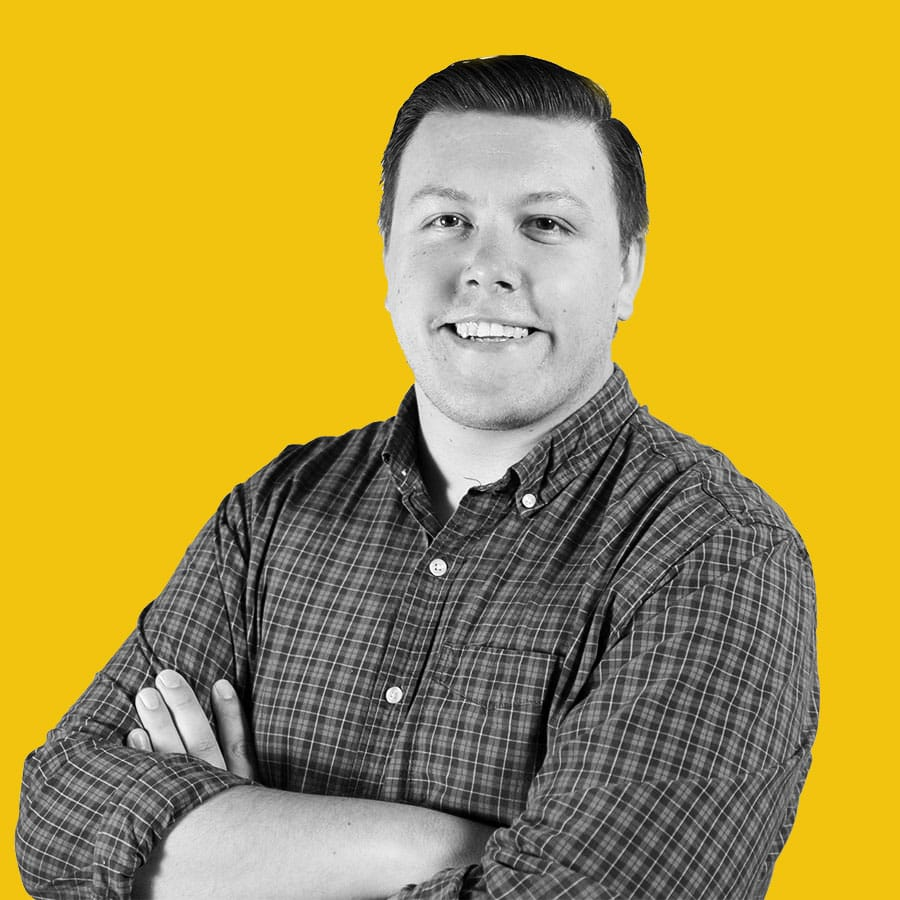
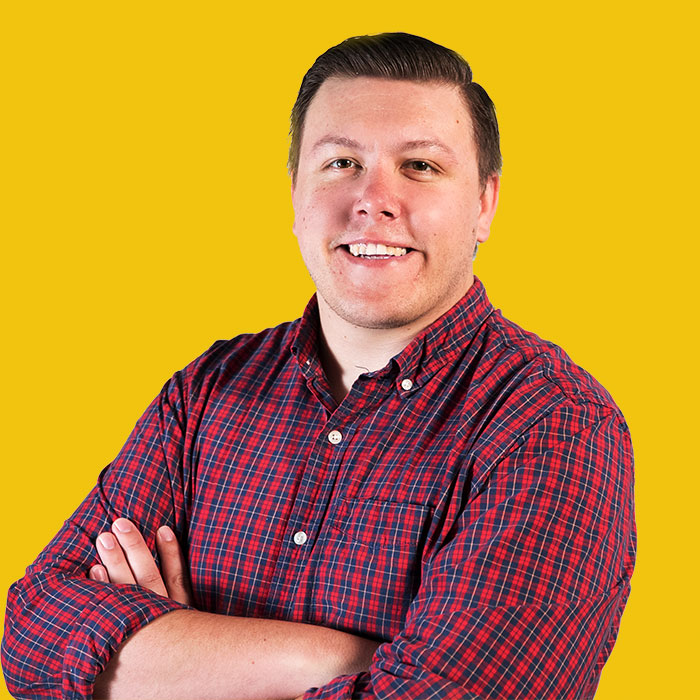
update headshot, use picture element, better font stack

diff --git a/_includes/css/main.css b/_includes/css/main.css
@@ -1,1 +1,1 @@
-/*! normalize.css v5.0.0 | MIT License | github.com/necolas/normalize.css */html{font-family:sans-serif;line-height:1.15;-ms-text-size-adjust:100%;-webkit-text-size-adjust:100%}body{margin:0}article,aside,footer,header,nav,section{display:block}h1{font-size:2em;margin:.67em 0}figcaption,figure,main{display:block}figure{margin:1em 40px}hr{box-sizing:content-box;height:0;overflow:visible}pre{font-family:monospace,monospace;font-size:1em}a{background-color:transparent;-webkit-text-decoration-skip:objects}a:active,a:hover{outline-width:0}abbr[title]{border-bottom:none;text-decoration:underline;text-decoration:underline dotted}b,strong{font-weight:inherit;font-weight:bolder}code,kbd,samp{font-family:monospace,monospace;font-size:1em}dfn{font-style:italic}mark{background-color:#ff0;color:#000}small{font-size:80%}sub,sup{font-size:75%;line-height:0;position:relative;vertical-align:baseline}sub{bottom:-.25em}sup{top:-.5em}audio,video{display:inline-block}audio:not([controls]){display:none;height:0}img{border-style:none}svg:not(:root){overflow:hidden}button,input,optgroup,select,textarea{font-family:sans-serif;font-size:100%;line-height:1.15;margin:0}button,input{overflow:visible}button,select{text-transform:none}[type=reset],[type=submit],button,html [type=button]{-webkit-appearance:button}[type=button]::-moz-focus-inner,[type=reset]::-moz-focus-inner,[type=submit]::-moz-focus-inner,button::-moz-focus-inner{border-style:none;padding:0}[type=button]:-moz-focusring,[type=reset]:-moz-focusring,[type=submit]:-moz-focusring,button:-moz-focusring{outline:1px dotted ButtonText}fieldset{border:1px solid silver;margin:0 2px;padding:.35em .625em .75em}legend{box-sizing:border-box;color:inherit;display:table;max-width:100%;padding:0;white-space:normal}progress{display:inline-block;vertical-align:baseline}textarea{overflow:auto}[type=checkbox],[type=radio]{box-sizing:border-box;padding:0}[type=number]::-webkit-inner-spin-button,[type=number]::-webkit-outer-spin-button{height:auto}[type=search]{-webkit-appearance:textfield;outline-offset:-2px}[type=search]::-webkit-search-cancel-button,[type=search]::-webkit-search-decoration{-webkit-appearance:none}::-webkit-file-upload-button{-webkit-appearance:button;font:inherit}details,menu{display:block}summary{display:list-item}canvas{display:inline-block}[hidden],template{display:none}html{font-size:1rem}@media (min-width:52rem){html{font-size:1.125rem}}body{line-height:1.45}p{margin-bottom:1.3em}h1,h2,h3,h4{margin:1.414em 0 .5em;font-weight:inherit;line-height:1.2}h1{font-size:2.369rem;margin-top:0}@media (min-width:52rem){h1{font-size:3.157rem}}h2{font-size:1.777rem}@media (min-width:52rem){h2{font-size:2.369rem}}h3{font-size:1.777rem}h4{font-size:1.333em}.font_small,small{font-size:.75rem}ol,ul{padding-left:1rem}*,:after,:before{box-sizing:inherit;padding:0;margin:0}html{box-sizing:border-box}body{font-family:monospace;font-weight:400;-webkit-font-smoothing:antialiased;-moz-osx-font-smoothing:grayscale}html.wf-active body{font-family:Roboto Mono,monospace}h1,h2,h3,h4{font-family:-apple-system,BlinkMacSystemFont,Segoe UI,Roboto,Helvetica,Arial,sans-serif}html.wf-active h1,html.wf-active h2,html.wf-active h3,html.wf-active h4{font-family:Poppins}strong{font-weight:600}figure{margin:0}img,svg{display:block;height:auto;max-width:100%}.image--bordered{border-radius:3px;border:1px solid #fff}a{color:inherit;word-break:break-word;transition:color .25s,background .3s;-webkit-text-decoration-skip:ink;text-decoration-skip:ink}a svg{transition:fill .25s}a img{transition:opacity .25s}pre{display:block;padding:1rem;overflow:auto;color:#f1c40f;background:#474b4d}.scr-text{position:absolute!important;width:1px;height:1px;overflow:hidden;clip:rect(1px,1px,1px,1px);color:inherit}.twitter-timeline{display:none;width:100%!important}@media (min-width:52rem){.twitter-timeline{display:block}}.button{font-family:-apple-system,BlinkMacSystemFont,Segoe UI,Roboto,Helvetica,Arial,sans-serif;color:#fff;text-decoration:none;background:#2574a9;padding:.5rem 1rem}html.wf-active .button{font-family:Poppins}.button:hover{background:#2c3e50}.button--white{color:#2c3e50;background:#fff}.button--white:hover{background:#f1c40f}.header{padding:1rem 0}.header a{color:#2c3e50}.header a:hover{color:#2574a9}.header__title{display:inline-block;font-size:.75rem}.header__title:hover svg{fill:#f1c40f}.header__title svg{display:none;vertical-align:middle;fill:#2574a9}@media (min-width:52rem){.header__title svg{display:inline-block;width:20px;height:20px}}.footer{background:#2c3e50;color:#fff;padding:1rem 0}.footer p{margin:0}.footer__info{background:#2574a9;padding:.5rem;font-size:.75rem}.footer__social{display:-ms-flexbox;display:flex}@media (min-width:52rem){.footer__social>:first-child{margin-left:auto}}.footer__social a{display:inline-block}.footer__social a .scr-text{color:#c8f7c5}.footer__social a svg{fill:#f1c40f;display:block;height:30px;width:30px}@media (min-width:52rem){.footer__social a svg{height:40px;width:40px}}.footer__social a:focus svg,.footer__social a:hover svg{fill:#fff}.wrapper{position:relative;margin-left:auto;margin-right:auto;padding-right:15px;padding-left:15px;max-width:78rem}@media (min-width:576px){.wrapper{padding-right:15px;padding-left:15px}}@media (min-width:768px){.wrapper{padding-right:15px;padding-left:15px}}@media (min-width:992px){.wrapper{padding-right:15px;padding-left:15px}}@media (min-width:1200px){.wrapper{padding-right:15px;padding-left:15px}}.row{display:-ms-flexbox;display:flex;-ms-flex-wrap:wrap;flex-wrap:wrap;margin-right:-15px;margin-left:-15px}@media (min-width:576px){.row{margin-right:-15px;margin-left:-15px}}@media (min-width:768px){.row{margin-right:-15px;margin-left:-15px}}@media (min-width:992px){.row{margin-right:-15px;margin-left:-15px}}@media (min-width:1200px){.row{margin-right:-15px;margin-left:-15px}}.row--center{-ms-flex-align:center;align-items:center}.column{position:relative;width:100%;min-height:1px;padding-right:15px;padding-left:15px}@media (min-width:576px){.column{padding-right:15px;padding-left:15px}}@media (min-width:768px){.column{padding-right:15px;padding-left:15px}}@media (min-width:992px){.column{padding-right:15px;padding-left:15px}}@media (min-width:1200px){.column{padding-right:15px;padding-left:15px}}.column--half{-ms-flex:0 0 50%;flex:0 0 50%;max-width:50%}.column--third{-ms-flex:0 0 33.33333%;flex:0 0 33.33333%;max-width:33.33333%}@media (min-width:60em){.column--split{-ms-flex:0 0 50%;flex:0 0 50%;max-width:50%}}.section{overflow:hidden}.section h2{margin-top:0}.section--gray{background:#f1f4f3}.section--dark{background:#474b4d}.section--navy{color:#fff;background:#2c3e50}.section--padded{padding-top:2rem;padding-bottom:2rem}@media (min-width:52rem){.section--padded{padding-top:4rem;padding-bottom:4rem}}.intro{background:#f1c40f;color:#010a15}.intro__description{padding-top:2rem;padding-bottom:2rem}@media (min-width:52rem){.intro__description{padding-top:4rem}}.intro__title{color:#2c3e50}.posts>a{display:block}.posts>a+a{margin-top:2rem}.post a{color:#2574a9}.post a:hover,.post h2,.post h3,.post h4{color:#2c3e50}.post figure,.post h2,.post h3,.post h4,.post pre{margin-bottom:1.3rem}.post blockquote{padding-left:1.3rem;color:#474b4d;border-left:3px solid #474b4d}.post__date{font-family:-apple-system,BlinkMacSystemFont,Segoe UI,Roboto,Helvetica,Arial,sans-serif;position:relative;display:inline-block;padding-top:.25rem;font-size:.75rem;color:#2c3e50;border-top:3px solid #2574a9;margin-bottom:1rem}html.wf-active .post__date{font-family:Poppins}.post__title{margin-top:0;margin-bottom:0;font-size:1.777rem;color:#2574a9}.post__title a{display:block}@media (min-width:52rem){.post__title--large{font-size:2.369rem}}.post__content,.post__content *+blockquote,.post__content *+p{margin-top:1.3rem}.post__content iframe{display:block;max-width:100%;margin:2.6rem auto}.Project__image{display:none}@media (min-width:52rem){.Project__image{display:block;margin:1rem 0}.Project__image img{border-radius:50%}}.Project__title{font-size:1.777rem;color:inherit}.Project__description{font-size:.75rem}
+/*! normalize.css v5.0.0 | MIT License | github.com/necolas/normalize.css */html{font-family:sans-serif;line-height:1.15;-ms-text-size-adjust:100%;-webkit-text-size-adjust:100%}body{margin:0}article,aside,footer,header,nav,section{display:block}h1{font-size:2em;margin:.67em 0}figcaption,figure,main{display:block}figure{margin:1em 40px}hr{box-sizing:content-box;height:0;overflow:visible}pre{font-family:monospace,monospace;font-size:1em}a{background-color:transparent;-webkit-text-decoration-skip:objects}a:active,a:hover{outline-width:0}abbr[title]{border-bottom:none;text-decoration:underline;text-decoration:underline dotted}b,strong{font-weight:inherit;font-weight:bolder}code,kbd,samp{font-family:monospace,monospace;font-size:1em}dfn{font-style:italic}mark{background-color:#ff0;color:#000}small{font-size:80%}sub,sup{font-size:75%;line-height:0;position:relative;vertical-align:baseline}sub{bottom:-.25em}sup{top:-.5em}audio,video{display:inline-block}audio:not([controls]){display:none;height:0}img{border-style:none}svg:not(:root){overflow:hidden}button,input,optgroup,select,textarea{font-family:sans-serif;font-size:100%;line-height:1.15;margin:0}button,input{overflow:visible}button,select{text-transform:none}[type=reset],[type=submit],button,html [type=button]{-webkit-appearance:button}[type=button]::-moz-focus-inner,[type=reset]::-moz-focus-inner,[type=submit]::-moz-focus-inner,button::-moz-focus-inner{border-style:none;padding:0}[type=button]:-moz-focusring,[type=reset]:-moz-focusring,[type=submit]:-moz-focusring,button:-moz-focusring{outline:1px dotted ButtonText}fieldset{border:1px solid silver;margin:0 2px;padding:.35em .625em .75em}legend{box-sizing:border-box;color:inherit;display:table;max-width:100%;padding:0;white-space:normal}progress{display:inline-block;vertical-align:baseline}textarea{overflow:auto}[type=checkbox],[type=radio]{box-sizing:border-box;padding:0}[type=number]::-webkit-inner-spin-button,[type=number]::-webkit-outer-spin-button{height:auto}[type=search]{-webkit-appearance:textfield;outline-offset:-2px}[type=search]::-webkit-search-cancel-button,[type=search]::-webkit-search-decoration{-webkit-appearance:none}::-webkit-file-upload-button{-webkit-appearance:button;font:inherit}details,menu{display:block}summary{display:list-item}canvas{display:inline-block}[hidden],template{display:none}html{font-size:1rem}@media (min-width:52rem){html{font-size:1.125rem}}body{line-height:1.45}p{margin-bottom:1.3em}h1,h2,h3,h4{margin:1.414em 0 .5em;font-weight:inherit;line-height:1.2}h1{font-size:2.369rem;margin-top:0}@media (min-width:52rem){h1{font-size:3.157rem}}h2{font-size:1.777rem}@media (min-width:52rem){h2{font-size:2.369rem}}h3{font-size:1.777rem}h4{font-size:1.333em}.font_small,small{font-size:.75rem}ol,ul{padding-left:1rem}*,:after,:before{box-sizing:inherit;padding:0;margin:0}html{box-sizing:border-box}body{font-family:Andale Mono,PT Mono,monospace;font-weight:400;-webkit-font-smoothing:antialiased;-moz-osx-font-smoothing:grayscale}html.wf-active body{font-family:Roboto Mono,Andale Mono,PT Mono,monospace}h1,h2,h3,h4{font-family:-apple-system,BlinkMacSystemFont,Segoe UI,Roboto,Helvetica,Arial,sans-serif;font-weight:600}html.wf-active h1,html.wf-active h2,html.wf-active h3,html.wf-active h4{font-family:Poppins,sans-serif}strong{font-weight:600}figure{margin:0}img,svg{display:block;height:auto;max-width:100%}.image--bordered{border-radius:3px;border:1px solid #fff}a{color:inherit;word-break:break-word;transition:color .25s,background .3s;-webkit-text-decoration-skip:ink;text-decoration-skip:ink}a svg{transition:fill .25s}a img{transition:opacity .25s}pre{display:block;padding:1rem;overflow:auto;color:#f1c40f;background:#474b4d}.scr-text{position:absolute!important;width:1px;height:1px;overflow:hidden;clip:rect(1px,1px,1px,1px);color:inherit}.twitter-timeline{display:none;width:100%!important}@media (min-width:52rem){.twitter-timeline{display:block}}.button{font-family:-apple-system,BlinkMacSystemFont,Segoe UI,Roboto,Helvetica,Arial,sans-serif;font-weight:600;color:#fff;text-decoration:none;background:#2574a9;padding:.5rem 1rem}html.wf-active .button{font-family:Poppins,sans-serif}.button:hover{background:#2c3e50}.button--white{color:#2c3e50;background:#fff}.button--white:hover{background:#f1c40f}.header{padding:1rem 0}.header a{color:#2c3e50}.header a:hover{color:#2574a9}.header__title{display:inline-block;font-size:.75rem}.header__title:hover svg{fill:#f1c40f}.header__title svg{display:none;vertical-align:middle;fill:#2574a9}@media (min-width:52rem){.header__title svg{display:inline-block;width:20px;height:20px}}.footer{background:#2c3e50;color:#fff;padding:1rem 0}.footer p{margin:0}.footer__info{background:#2574a9;padding:.5rem;font-size:.75rem}.footer__social{display:-ms-flexbox;display:flex}@media (min-width:52rem){.footer__social>:first-child{margin-left:auto}}.footer__social a{display:inline-block}.footer__social a .scr-text{color:#c8f7c5}.footer__social a svg{fill:#f1c40f;display:block;height:30px;width:30px}@media (min-width:52rem){.footer__social a svg{height:40px;width:40px}}.footer__social a:focus svg,.footer__social a:hover svg{fill:#fff}.wrapper{position:relative;margin-left:auto;margin-right:auto;padding-right:15px;padding-left:15px;max-width:78rem}@media (min-width:576px){.wrapper{padding-right:15px;padding-left:15px}}@media (min-width:768px){.wrapper{padding-right:15px;padding-left:15px}}@media (min-width:992px){.wrapper{padding-right:15px;padding-left:15px}}@media (min-width:1200px){.wrapper{padding-right:15px;padding-left:15px}}.row{display:-ms-flexbox;display:flex;-ms-flex-wrap:wrap;flex-wrap:wrap;margin-right:-15px;margin-left:-15px}@media (min-width:576px){.row{margin-right:-15px;margin-left:-15px}}@media (min-width:768px){.row{margin-right:-15px;margin-left:-15px}}@media (min-width:992px){.row{margin-right:-15px;margin-left:-15px}}@media (min-width:1200px){.row{margin-right:-15px;margin-left:-15px}}.row--center{-ms-flex-align:center;align-items:center}.column{position:relative;width:100%;min-height:1px;padding-right:15px;padding-left:15px}@media (min-width:576px){.column{padding-right:15px;padding-left:15px}}@media (min-width:768px){.column{padding-right:15px;padding-left:15px}}@media (min-width:992px){.column{padding-right:15px;padding-left:15px}}@media (min-width:1200px){.column{padding-right:15px;padding-left:15px}}.column--half{-ms-flex:0 0 50%;flex:0 0 50%;max-width:50%}.column--third{-ms-flex:0 0 33.33333%;flex:0 0 33.33333%;max-width:33.33333%}@media (min-width:60em){.column--split{-ms-flex:0 0 50%;flex:0 0 50%;max-width:50%}}.section{overflow:hidden}.section h2{margin-top:0}.section--gray{background:#f1f4f3}.section--dark{background:#474b4d}.section--navy{color:#fff;background:#2c3e50}.section--padded{padding-top:2rem;padding-bottom:2rem}@media (min-width:52rem){.section--padded{padding-top:4rem;padding-bottom:4rem}}.intro{background:#f1c40f;color:#010a15}.intro__description{padding-top:2rem;padding-bottom:2rem}@media (min-width:52rem){.intro__description{padding-top:4rem}}.intro__title{color:#2c3e50}.posts>a{display:block}.posts>a+a{margin-top:2rem}.post a{color:#2574a9}.post a:hover,.post h2,.post h3,.post h4{color:#2c3e50}.post figure,.post h2,.post h3,.post h4,.post pre{margin-bottom:1.3rem}.post blockquote{padding-left:1.3rem;color:#474b4d;border-left:3px solid #474b4d}.post__date{font-family:-apple-system,BlinkMacSystemFont,Segoe UI,Roboto,Helvetica,Arial,sans-serif;font-weight:600;position:relative;display:inline-block;padding-top:.25rem;font-size:.75rem;color:#2c3e50;border-top:3px solid #2574a9;margin-bottom:1rem}html.wf-active .post__date{font-family:Poppins,sans-serif}.post__title{margin-top:0;margin-bottom:0;font-size:1.777rem;color:#2574a9}.post__title a{display:block}@media (min-width:52rem){.post__title--large{font-size:2.369rem}}.post__content,.post__content *+blockquote,.post__content *+p{margin-top:1.3rem}.post__content iframe{display:block;max-width:100%;margin:2.6rem auto}.Project__image{display:none}@media (min-width:52rem){.Project__image{display:block;margin:1rem 0}.Project__image img{border-radius:50%}}.Project__title{font-size:1.777rem;color:inherit}.Project__description{font-size:.75rem}

diff --git a/index.html b/index.html
@@ -6,7 +6,10 @@ layout: default
     <div class="wrapper">
         <div class="row row--center">
             <div class="column column--split">
-                <img src="assets/img/headshot.jpg" alt="Justin Conway">
+                <picture>
+                    <source srcset="assets/img/headshot.jpg, assets/img/headshot@2x.jpg 2x">
+                    <img srcset="assets/img/headshot.jpg, assets/img/headshot@2x.jpg 2x" alt="Justin Conway">
+                </picture>
             </div>
 
             <div class="column column--split">

diff --git a/_scss/_base.scss b/_scss/_base.scss
@@ -11,13 +11,13 @@ html {
 }
 
 body {
-  font-family: monospace;
+  font-family: "Andale Mono", "PT Mono", monospace;
   font-weight: 400;
   -webkit-font-smoothing: antialiased;
   -moz-osx-font-smoothing: grayscale;
 
   html.wf-active & {
-    font-family: "Roboto Mono", monospace;
+    font-family: "Roboto Mono", "Andale Mono", "PT Mono", monospace;
   }
 }
 

diff --git a/_scss/var/_mixins.scss b/_scss/var/_mixins.scss
@@ -1,8 +1,9 @@
 @mixin bold-font() {
   font-family: -apple-system,BlinkMacSystemFont,"Segoe UI",Roboto,Helvetica,Arial,sans-serif,"Apple Color Emoji","Segoe UI Emoji","Segoe UI Symbol";
+  font-weight: 600;
 
   html.wf-active & {
-    font-family: 'Poppins';
+    font-family: 'Poppins', sans-serif;
   }
 }
 
